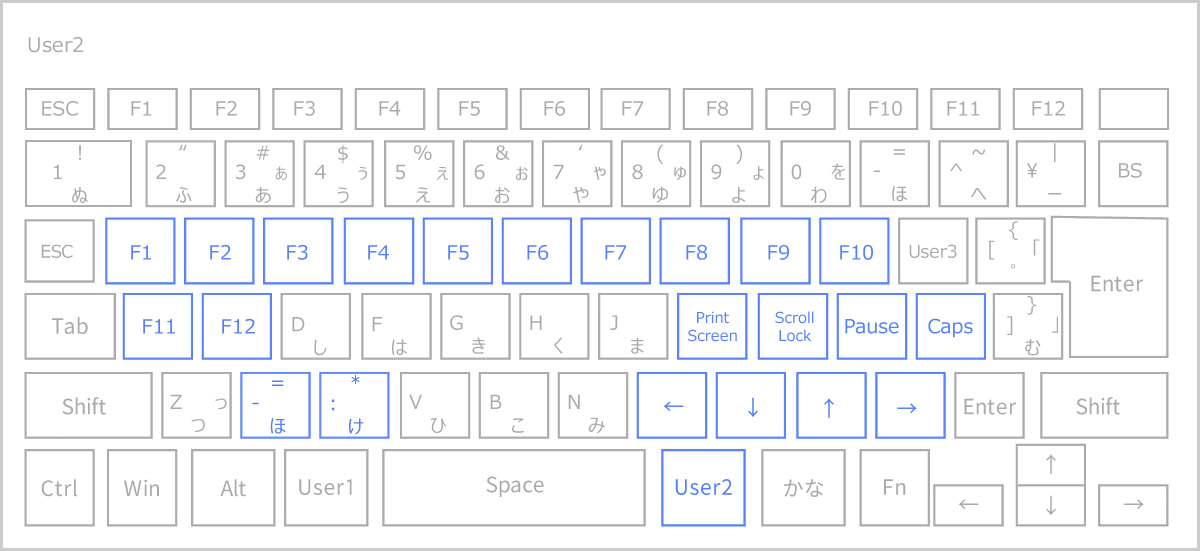
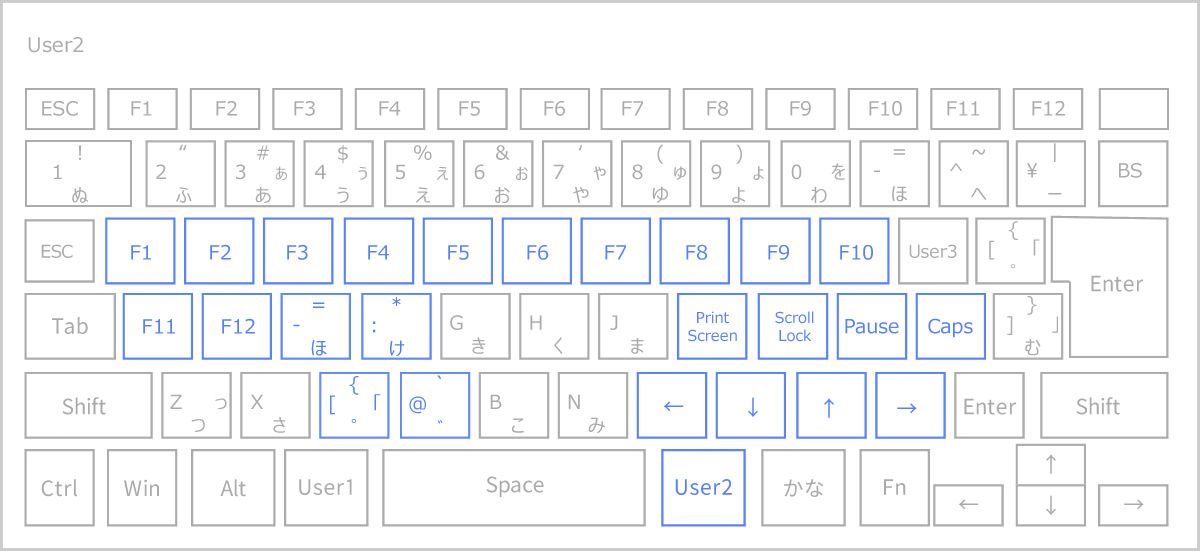
キーマッピングを変更

diff --git a/src/KeyboardGlobalHook.cs b/src/KeyboardGlobalHook.cs
@@ -199,8 +199,8 @@ namespace MyKeyChangerForAppleWireless {
 
         // User2(F15)
         private static Dictionary<byte, KeySet> _convertMappingUser2 = new Dictionary<byte, KeySet> {
-            { ScanCode.X, new KeySet(KeySetPair.Minus) },
-            { ScanCode.C, new KeySet(KeySetPair.Colon) },
+            { ScanCode.C, new KeySet(KeySetPair.BracketsL) },
+            { ScanCode.V, new KeySet(KeySetPair.AtMark) },
             { ScanCode.M, new KeySet(KeySetPair.Left, Flags.ExtendeKey) },
             { ScanCode.LessThan, new KeySet(KeySetPair.Down, Flags.ExtendeKey) },
             { ScanCode.GreaterThan, new KeySet(KeySetPair.Up, Flags.ExtendeKey) },
@@ -208,6 +208,8 @@ namespace MyKeyChangerForAppleWireless {
 
             { ScanCode.A, new KeySet(KeySetPair.F11) },
             { ScanCode.S, new KeySet(KeySetPair.F12) },
+            { ScanCode.D, new KeySet(KeySetPair.Minus) },
+            { ScanCode.F, new KeySet(KeySetPair.Colon) },
             { ScanCode.K, new KeySet(KeySetPair.PrintScreen) },
             { ScanCode.L, new KeySet(KeySetPair.ScrollLock) },
             { ScanCode.SemiColon, new KeySet(KeySetPair.Pause) },
@@ -324,9 +326,9 @@ namespace MyKeyChangerForAppleWireless {
             //System.Diagnostics.Debug.Print("### code:" + code.ToString("x4"));
             //System.Diagnostics.Debug.Print("### _modified:" + _modified);
 
-            System.Diagnostics.Debug.Print("### 001:" + scanCode.ToString("x4"));
+            //System.Diagnostics.Debug.Print("### 001:" + scanCode.ToString("x4"));
             if (Const.Action != code || (IntPtr)ExtraInfo.SendKey == hookData.dwExtraInfo) {
-                System.Diagnostics.Debug.Print("### 002:" + scanCode.ToString("x4"));
+                //System.Diagnostics.Debug.Print("### 002:" + scanCode.ToString("x4"));
                 goto ExitProc;
             }
 
@@ -337,16 +339,16 @@ namespace MyKeyChangerForAppleWireless {
                 } else {
                     _modified = ModifiedKey.None;
                 }
-                System.Diagnostics.Debug.Print("### 003:" + scanCode.ToString("x4"));
+                //System.Diagnostics.Debug.Print("### 003:" + scanCode.ToString("x4"));
                 return (IntPtr)1;
             }
             if (ModifiedKey.None == _modified) {
                 if (_normalConvert.ContainsKey(scanCode)) {
                     SendKey(keyStroke, _normalConvert[scanCode]);
-                    System.Diagnostics.Debug.Print("### 004:" + scanCode.ToString("x4"));
+                    //System.Diagnostics.Debug.Print("### 004:" + scanCode.ToString("x4"));
                     return (IntPtr)1;
                 }
-                System.Diagnostics.Debug.Print("### 005:" + scanCode.ToString("x4"));
+                //System.Diagnostics.Debug.Print("### 005:" + scanCode.ToString("x4"));
                 goto ExitProc;
             }
 
@@ -354,12 +356,12 @@ namespace MyKeyChangerForAppleWireless {
             
             if (mappingData.ContainsKey(scanCode)) {
                 SendKey(keyStroke, mappingData[scanCode]);
-                System.Diagnostics.Debug.Print("### 006:" + scanCode.ToString("x4"));
+                //System.Diagnostics.Debug.Print("### 006:" + scanCode.ToString("x4"));
                 return (IntPtr)1;
             }
 
         ExitProc:
-            System.Diagnostics.Debug.Print("### 007:" + scanCode.ToString("x4"));
+            //System.Diagnostics.Debug.Print("### 007:" + scanCode.ToString("x4"));
             return NativeMethods.CallNextHookEx(_keyEventHandle, code, msg, ref hookData);
         }
 
